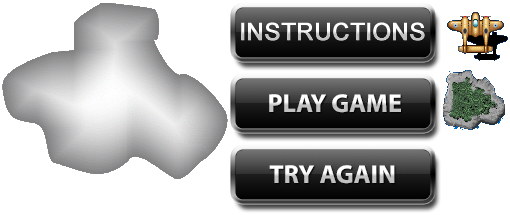
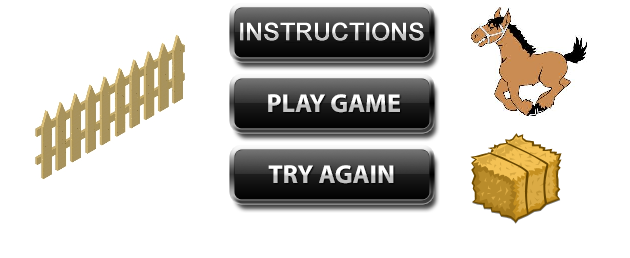
added images

diff --git a/Scripts/managers/asset.js b/Scripts/managers/asset.js
@@ -7,8 +7,11 @@
 	//add horse image
 	//add fence image
 	//add different sound
+		{ id: "horse", src: "assets/images/horse.png" },
+		{ id: "hay", src: "assets/images/hay.png" },
+		{ id: "fence", src: "assets/images/fence.png" },
         { id: "loading", src: "assets/images/loading.jpg" },
-        { id: "ocean", src: "assets/images/field.jpg" },
+        { id: "field", src: "assets/images/field.jpg" },
         { id: "engine", src: "assets/sounds/engine.ogg" },
         { id: "thunder", src: "assets/sounds/thunder.ogg" },
         { id: "yay", src: "assets/sounds/yay.ogg" }
